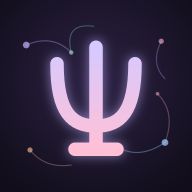
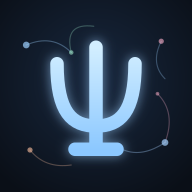
Color principal celeste en vez de morado
Claude-Session: https://claude.ai/code/session_01VSuco3dbuJTJP6K4NX9hPz

Changed region(s): [[0.25, 0.2188, 0.75, 0.8125], [0.0938, 0.2188, 0.1562, 0.25]]

diff --git a/index.html b/index.html
@@ -5,7 +5,7 @@
 <meta name="viewport" content="width=device-width,initial-scale=1,viewport-fit=cover">
 <title>Pensum Psicología UNET</title>
 <meta name="description" content="Marca tus materias aprobadas de Psicología UNET y descubre qué inscribir según las prelaciones.">
-<meta name="theme-color" content="#100D18">
+<meta name="theme-color" content="#0B1018">
 <meta name="apple-mobile-web-app-capable" content="yes">
 <meta name="mobile-web-app-capable" content="yes">
 <meta name="apple-mobile-web-app-status-bar-style" content="black-translucent">
@@ -21,15 +21,15 @@
    por donde viajan impulsos pastel (sinapsis) y, abajo, dos personas conversando con alguna burbuja de pensamiento.
    Tarjetas oscuras translúcidas, acentos pastel, títulos en serif suave (Fraunces) */
 :root{
-  --bg:#100D18; --surface:rgba(27,22,39,.92); --surface-2:#251E36; --sunk:rgba(12,10,19,.62);
-  --ink:#F2EDF8; --muted:#A99FBA; --line:rgba(196,178,255,.12); --line-strong:rgba(196,178,255,.26);
-  --lav:#C4B2FF; --lav-soft:rgba(196,178,255,.14); --on-pastel:#18121F;
+  --bg:#0B1018; --surface:rgba(18,24,35,.92); --surface-2:#1B2433; --sunk:rgba(7,11,17,.62);
+  --ink:#EEF3F9; --muted:#9AA9BD; --line:rgba(157,208,255,.12); --line-strong:rgba(157,208,255,.26);
+  --lav:#9DD0FF; --lav-soft:rgba(157,208,255,.14); --on-pastel:#0E1520;
   --mint:#9EE8C8; --mint-soft:rgba(158,232,200,.13);
   --sky:#A6D2FF; --sky-soft:rgba(166,210,255,.13);
   --peach:#FFC2A1; --peach-soft:rgba(255,194,161,.14);
   --butter:#FFE39B; --butter-soft:rgba(255,227,155,.14);
   --rose:#FFB1CB; --rose-soft:rgba(255,177,203,.14);
-  --stone:rgba(169,159,186,.14); --stone-ink:#C3BAD2;
+  --stone:rgba(150,168,190,.14); --stone-ink:#BCC8D8;
   --f-display:"Fraunces",Georgia,"Times New Roman",serif;
   --f-body:"Figtree",system-ui,-apple-system,"Segoe UI",Arial,sans-serif;
   --f-mono:"DM Mono",ui-monospace,Menlo,Consolas,monospace;
@@ -50,26 +50,26 @@ button{font:inherit;color:inherit}
 /* Cabecera */
 .top{display:flex;align-items:center;gap:13px;padding-block:20px 8px}
 .psi{flex:none;width:50px;height:50px;border-radius:50%;display:grid;place-items:center;font-family:var(--f-display);font-size:30px;line-height:1;color:var(--lav);
-  background:radial-gradient(circle at 50% 40%,rgba(196,178,255,.22),rgba(196,178,255,.04) 70%);border:1px solid rgba(196,178,255,.35);text-shadow:0 0 14px rgba(196,178,255,.6);box-shadow:0 0 22px -6px rgba(196,178,255,.45)}
+  background:radial-gradient(circle at 50% 40%,rgba(157,208,255,.22),rgba(157,208,255,.04) 70%);border:1px solid rgba(157,208,255,.35);text-shadow:0 0 14px rgba(157,208,255,.6);box-shadow:0 0 22px -6px rgba(157,208,255,.45)}
 .brand{min-width:0}
 .brand h1{font-family:var(--f-display);font-weight:700;font-size:29px;line-height:1;margin:0;letter-spacing:-.2px}
-.brand h1 em{font-style:italic;font-weight:600;color:var(--lav);text-shadow:0 0 20px rgba(196,178,255,.35)}
+.brand h1 em{font-style:italic;font-weight:600;color:var(--lav);text-shadow:0 0 20px rgba(157,208,255,.35)}
 .brand p{margin:7px 0 0;font-size:12.5px;color:var(--muted);font-weight:500}
 .top .la{height:46px;width:auto;margin-left:auto;flex:none;display:block}
 
 /* Resumen */
-.sum{position:relative;overflow:hidden;background:linear-gradient(180deg,rgba(38,31,55,.95),rgba(22,18,33,.95));border:1px solid var(--line-strong);border-radius:24px;padding:20px 18px 16px;margin-block:12px 4px;display:grid;gap:12px;box-shadow:inset 0 1px 0 rgba(255,255,255,.05),0 22px 40px -26px rgba(0,0,0,.8)}
+.sum{position:relative;overflow:hidden;background:linear-gradient(180deg,rgba(27,36,52,.95),rgba(16,21,31,.95));border:1px solid var(--line-strong);border-radius:24px;padding:20px 18px 16px;margin-block:12px 4px;display:grid;gap:12px;box-shadow:inset 0 1px 0 rgba(255,255,255,.05),0 22px 40px -26px rgba(0,0,0,.8)}
 .sum::before{content:"";position:absolute;right:-70px;top:-80px;width:240px;height:220px;border-radius:50%;pointer-events:none;
-  background:radial-gradient(closest-side,rgba(196,178,255,.2),rgba(196,178,255,0)),radial-gradient(closest-side at 30% 70%,rgba(255,177,203,.12),rgba(255,177,203,0))}
+  background:radial-gradient(closest-side,rgba(157,208,255,.2),rgba(157,208,255,0)),radial-gradient(closest-side at 30% 70%,rgba(255,177,203,.12),rgba(255,177,203,0))}
 .sum > *{position:relative}
 .sum .big{display:flex;align-items:baseline;gap:10px;flex-wrap:wrap}
-.sum .big b{font-family:var(--f-display);font-weight:700;font-size:56px;line-height:.9;color:var(--lav);font-variant-numeric:tabular-nums;letter-spacing:-1px;text-shadow:0 0 26px rgba(196,178,255,.35)}
+.sum .big b{font-family:var(--f-display);font-weight:700;font-size:56px;line-height:.9;color:var(--lav);font-variant-numeric:tabular-nums;letter-spacing:-1px;text-shadow:0 0 26px rgba(157,208,255,.35)}
 .sum .big span{color:var(--muted);font-size:14.5px}
 .bar{height:12px;border-radius:99px;background:rgba(255,255,255,.06);overflow:hidden;display:flex}
-.bar i{display:block;height:100%;border-right:2px solid #1E1829}
+.bar i{display:block;height:100%;border-right:2px solid #151C29}
 .stats{display:grid;grid-template-columns:repeat(3,minmax(0,1fr));gap:8px}
 .stat{border-radius:16px;padding:9px 12px;min-width:0;border:1px solid transparent}
-.stat:nth-child(1){background:var(--lav-soft);border-color:rgba(196,178,255,.18)} .stat:nth-child(1) b{color:var(--lav)}
+.stat:nth-child(1){background:var(--lav-soft);border-color:rgba(157,208,255,.18)} .stat:nth-child(1) b{color:var(--lav)}
 .stat:nth-child(2){background:var(--mint-soft);border-color:rgba(158,232,200,.18)} .stat:nth-child(2) b{color:var(--mint)}
 .stat:nth-child(3){background:var(--peach-soft);border-color:rgba(255,194,161,.18)} .stat:nth-child(3) b{color:var(--peach)}
 .stat b{display:block;font-family:var(--f-display);font-weight:700;font-size:25px;line-height:1.15;font-variant-numeric:tabular-nums}
@@ -77,10 +77,10 @@ button{font:inherit;color:inherit}
 .sync{font-size:12px;color:var(--muted)}
 
 /* Pestañas */
-.tabs{position:sticky;top:env(safe-area-inset-top,0px);z-index:5;background:linear-gradient(var(--bg) 76%,rgba(16,13,24,0));padding-block:10px 14px}
-.seg{display:grid;grid-template-columns:repeat(4,1fr);background:rgba(27,22,39,.95);border:1px solid var(--line);border-radius:99px;padding:4px;gap:2px}
+.tabs{position:sticky;top:env(safe-area-inset-top,0px);z-index:5;background:linear-gradient(var(--bg) 76%,rgba(11,16,24,0));padding-block:10px 14px}
+.seg{display:grid;grid-template-columns:repeat(4,1fr);background:rgba(18,24,35,.95);border:1px solid var(--line);border-radius:99px;padding:4px;gap:2px}
 .seg button{border:0;background:transparent;border-radius:99px;padding:9px 4px;font-weight:600;font-size:14.5px;line-height:1.1;cursor:pointer;color:var(--muted);transition:background .2s,color .2s}
-.seg button[aria-selected="true"]{background:var(--lav);color:var(--on-pastel);box-shadow:0 0 18px -4px rgba(196,178,255,.6)}
+.seg button[aria-selected="true"]{background:var(--lav);color:var(--on-pastel);box-shadow:0 0 18px -4px rgba(157,208,255,.6)}
 
 /* Semestres y filas */
 .sem{margin-block:20px}
@@ -92,11 +92,11 @@ button{font:inherit;color:inherit}
 .list{background:var(--surface);border:1px solid var(--line);border-radius:20px;overflow:hidden}
 .row{display:flex;align-items:center;gap:12px;width:100%;text-align:left;border:0;border-top:1px solid var(--line);background:transparent;padding:11px 14px;cursor:pointer;min-height:58px;transition:background .2s}
 .row:first-child{border-top:0}
-.row:hover{background:rgba(196,178,255,.05)}
+.row:hover{background:rgba(157,208,255,.05)}
 /* Marca: círculo vacío = pendiente · círculo menta con visto = aprobada · nube de pensamiento con puntos = inscrita (cursando) */
 .ck{flex:none;width:28px;height:28px;display:grid;place-items:center}
 .ck svg{width:28px;height:28px;display:block}
-.dot .r{fill:rgba(255,255,255,.02);stroke:#5F5573;stroke-width:1.6}
+.dot .r{fill:rgba(255,255,255,.02);stroke:#536279;stroke-width:1.6}
 .dot .k{fill:none;stroke:var(--on-pastel);stroke-width:2.4;stroke-linecap:round;stroke-linejoin:round;display:none}
 .ck .tb{display:none}
 .tb .c{fill:var(--butter);stroke:#E8C566;stroke-width:1.1}
@@ -132,7 +132,7 @@ button{font:inherit;color:inherit}
 .opts div{margin-top:3px}
 .markbar{display:grid;gap:6px;margin:4px 2px}
 .markbar>span{font-size:12.5px;color:var(--muted)}
-.marks{display:grid;grid-template-columns:1fr 1fr;gap:4px;background:rgba(27,22,39,.95);border:1px solid var(--line);padding:4px;border-radius:18px}
+.marks{display:grid;grid-template-columns:1fr 1fr;gap:4px;background:rgba(18,24,35,.95);border:1px solid var(--line);padding:4px;border-radius:18px}
 .marks button{display:flex;align-items:center;justify-content:center;gap:8px;border:0;border-radius:14px;padding:9px 6px;font-weight:600;font-size:14px;background:transparent;color:var(--muted);cursor:pointer}
 .marks button[aria-pressed="true"]{background:var(--surface-2);color:var(--ink);box-shadow:inset 0 0 0 1px var(--line-strong),inset 0 -3px 0 var(--mint)}
 #mkE[aria-pressed="true"]{box-shadow:inset 0 0 0 1px var(--line-strong),inset 0 -3px 0 var(--butter)}
@@ -185,7 +185,7 @@ button{font:inherit;color:inherit}
 /* Plan */
 .plan{display:grid;gap:10px}
 .ps{border:1px solid var(--line);border-radius:20px;background:var(--surface);overflow:hidden}
-.ps header{display:flex;justify-content:space-between;align-items:baseline;padding:10px 14px;background:rgba(196,178,255,.08);border-bottom:1px solid var(--line)}
+.ps header{display:flex;justify-content:space-between;align-items:baseline;padding:10px 14px;background:rgba(157,208,255,.08);border-bottom:1px solid var(--line)}
 .ps header b{font-family:var(--f-display);font-size:18px;font-weight:700}
 .ps header span{font-family:var(--f-mono);font-size:11px;color:var(--muted);font-variant-numeric:tabular-nums;white-space:nowrap;margin-left:10px}
 .ps ul{list-style:none;margin:0;padding:6px 14px 10px}
@@ -208,7 +208,7 @@ button{font:inherit;color:inherit}
 .btn{border:0;background:var(--lav);color:var(--on-pastel);border-radius:99px;padding:10px 16px;font-weight:700;font-size:14.5px;cursor:pointer;white-space:nowrap}
 .btn.sec{background:var(--surface-2);color:var(--lav);box-shadow:inset 0 0 0 1px var(--line-strong)}
 .btn.danger{background:var(--rose-soft);color:var(--rose);box-shadow:inset 0 0 0 1px rgba(255,177,203,.35)}
-.codebox{font-family:var(--f-mono);font-size:13px;background:var(--lav-soft);border:1px dashed rgba(196,178,255,.4);color:var(--lav);border-radius:14px;padding:10px 12px;word-break:break-all;user-select:all}
+.codebox{font-family:var(--f-mono);font-size:13px;background:var(--lav-soft);border:1px dashed rgba(157,208,255,.4);color:var(--lav);border-radius:14px;padding:10px 12px;word-break:break-all;user-select:all}
 .msg{font-size:13px;margin-top:6px;min-height:1em}
 .msg.ok{color:var(--mint)} .msg.bad{color:var(--rose)}
 .foot{display:flex;align-items:center;justify-content:center;gap:14px;padding-block:26px 30px;color:var(--muted);font-size:12.5px;text-align:center;flex-wrap:wrap}
@@ -219,7 +219,7 @@ button{font:inherit;color:inherit}
 .acrow .sync{flex:1;min-width:160px}
 .acrow .btn{padding:8px 14px;font-size:13.5px}
 .sheet{position:fixed;inset:0;z-index:20;background:rgba(5,4,9,.7);display:flex;align-items:center;justify-content:center;backdrop-filter:blur(4px);-webkit-backdrop-filter:blur(4px);padding:calc(16px + env(safe-area-inset-top,0px)) max(16px,env(safe-area-inset-right,0px)) calc(16px + env(safe-area-inset-bottom,0px)) max(16px,env(safe-area-inset-left,0px))}
-.sheet-in{position:relative;width:100%;max-width:440px;max-height:100%;overflow:auto;background:linear-gradient(180deg,#261F37,#1A1526);border:1px solid var(--line-strong);border-radius:26px;padding:22px 18px 20px;box-shadow:0 24px 60px -20px rgba(0,0,0,.8)}
+.sheet-in{position:relative;width:100%;max-width:440px;max-height:100%;overflow:auto;background:linear-gradient(180deg,#1E2738,#141A26);border:1px solid var(--line-strong);border-radius:26px;padding:22px 18px 20px;box-shadow:0 24px 60px -20px rgba(0,0,0,.8)}
 .sheet-h{display:flex;align-items:center;justify-content:space-between;margin-bottom:10px}
 .sheet-h h3{font-family:var(--f-display);font-size:24px;font-weight:700;margin:0}
 .gbtn{display:flex;align-items:center;justify-content:center;gap:10px;width:100%;background:#fff;color:#1f1f1f;box-shadow:none;font-weight:600;font-size:15px;padding:12px}
@@ -1010,7 +1010,7 @@ if ("serviceWorker" in navigator && location.protocol === "https:") {
   const ctx = cv.getContext("2d");
   const reduce = window.matchMedia && matchMedia("(prefers-reduced-motion: reduce)").matches;
   const TAU = Math.PI*2, rnd = (a,b) => a + Math.random()*(b-a), pick = a => a[Math.floor(Math.random()*a.length)];
-  const COLS = ["196,178,255","158,232,200","166,210,255","255,194,161","255,177,203","255,227,155"];
+  const COLS = ["157,208,255","158,232,200","255,194,161","190,228,255","255,177,203","255,227,155"];
   const SYMS = ["heart","?","smile","!","Ψ","spiral","sad","zZ","bulb","…"];
   const SPEED = 80;   // px/s de los impulsos
   let W=0,H=0,dpr=1,base=null,N=[],E=[],pulses=[],queue=[],heads=[],bubbles=[],t=0,last=0,raf=0,nextFire=0,nextBubble=0,SB=0;
@@ -1043,7 +1043,7 @@ if ("serviceWorker" in navigator && location.protocol === "https:") {
     if (tmp.width !== S*dpr){ tmp.width = tmp.height = S*dpr; } tc.setTransform(dpr,0,0,dpr,0,0); tc.clearRect(0,0,S,S);
     const cx = S/2, cy = S/2;   // se dibuja aparte y opaca, y luego se pega con transparencia (así no se ven los círculos por dentro)
     tc.strokeStyle = `rgba(${col},.8)`; tc.lineWidth = 2.4; bumps.forEach(b => { tc.beginPath(); tc.arc(cx+b[0]*r, cy+b[1]*r, b[2]*r, 0, TAU); tc.stroke(); });
-    tc.fillStyle = "#1E1830"; bumps.forEach(b => { tc.beginPath(); tc.arc(cx+b[0]*r, cy+b[1]*r, b[2]*r, 0, TAU); tc.fill(); });
+    tc.fillStyle = "#172131"; bumps.forEach(b => { tc.beginPath(); tc.arc(cx+b[0]*r, cy+b[1]*r, b[2]*r, 0, TAU); tc.fill(); });
     c.save(); c.globalAlpha = a; c.drawImage(tmp, x - S/2, y - S/2, S, S); c.restore();
   }
   function build(){
@@ -1051,9 +1051,9 @@ if ("serviceWorker" in navigator && location.protocol === "https:") {
     W = innerWidth; H = innerHeight; cv.width = Math.round(W*dpr); cv.height = Math.round(H*dpr);
     base = document.createElement("canvas"); base.width = cv.width; base.height = cv.height;
     const b = base.getContext("2d"); b.scale(dpr,dpr); b.lineCap = "round";
-    const g = b.createLinearGradient(0,0,0,H); g.addColorStop(0,"#140F1F"); g.addColorStop(1,"#0B0911");
+    const g = b.createLinearGradient(0,0,0,H); g.addColorStop(0,"#0E1523"); g.addColorStop(1,"#080B11");
     b.fillStyle = g; b.fillRect(0,0,W,H);
-    const rg = b.createRadialGradient(W*.5,H*.2,0,W*.5,H*.2,Math.max(W,H)*.75); rg.addColorStop(0,"rgba(120,90,200,.15)"); rg.addColorStop(1,"rgba(120,90,200,0)");
+    const rg = b.createRadialGradient(W*.5,H*.2,0,W*.5,H*.2,Math.max(W,H)*.75); rg.addColorStop(0,"rgba(60,130,210,.14)"); rg.addColorStop(1,"rgba(60,130,210,0)");
     b.fillStyle = rg; b.fillRect(0,0,W,H);
     const sb = safeBottom(); SB = H - 92 - sb;
     // neuronas repartidas con una distancia mínima entre ellas
@@ -1093,10 +1093,10 @@ if ("serviceWorker" in navigator && location.protocol === "https:") {
       const hg = b.createRadialGradient(n.x,n.y,0,n.x,n.y,n.r*5); hg.addColorStop(0,`rgba(${n.c},.1)`); hg.addColorStop(1,`rgba(${n.c},0)`);
       b.fillStyle = hg; b.beginPath(); b.arc(n.x,n.y,n.r*5,0,TAU); b.fill();
       b.fillStyle = `rgba(${n.c},.42)`; b.beginPath(); b.arc(n.x,n.y,n.r,0,TAU); b.fill();
-      b.fillStyle = "rgba(16,13,24,.75)"; b.beginPath(); b.arc(n.x,n.y,n.r*.38,0,TAU); b.fill();   // núcleo
+      b.fillStyle = "rgba(9,13,20,.75)"; b.beginPath(); b.arc(n.x,n.y,n.r*.38,0,TAU); b.fill();   // núcleo
     });
     // abajo: se oscurece un poco para que resalten las siluetas
-    const fg = b.createLinearGradient(0,SB-40,0,H); fg.addColorStop(0,"rgba(11,9,17,0)"); fg.addColorStop(1,"rgba(11,9,17,.92)");
+    const fg = b.createLinearGradient(0,SB-40,0,H); fg.addColorStop(0,"rgba(8,11,17,0)"); fg.addColorStop(1,"rgba(8,11,17,.92)");
     b.fillStyle = fg; b.fillRect(0,SB-40,W,H-SB+40);
     // personas de perfil, algunas mirándose como en una conversación
     heads = [];
@@ -1106,7 +1106,7 @@ if ("serviceWorker" in navigator && location.protocol === "https:") {
         heads.push({x, y, s, dir, c, bx: x + (dir > 0 ? .46 : .54)*s, by: y + .42*s})); });
     heads.forEach(h => {
       headPath(b, h.x, h.y, h.s, h.dir);
-      const hg = b.createLinearGradient(0,h.y,0,H); hg.addColorStop(0,"#211A33"); hg.addColorStop(1,"#120E1B");
+      const hg = b.createLinearGradient(0,h.y,0,H); hg.addColorStop(0,"#1A2436"); hg.addColorStop(1,"#0D121B");
       b.fillStyle = hg; b.fill();
       b.save(); b.clip(); const gl = b.createRadialGradient(h.bx,h.by,0,h.bx,h.by,h.s*.55); gl.addColorStop(0,`rgba(${h.c},.2)`); gl.addColorStop(1,`rgba(${h.c},0)`);
       b.fillStyle = gl; b.fillRect(h.x-h.s, h.y-h.s, h.s*3, h.s*3); b.restore();
@@ -1157,7 +1157,7 @@ if ("serviceWorker" in navigator && location.protocol === "https:") {
     // burbujas de pensamiento que suben y se desvanecen
     bubbles.forEach(q => {
       const a = Math.min(1, q.age/.6, (q.life - q.age)/1.6), g = Math.min(1, .55 + q.age*.6);
-      [[.3,3],[.6,4.6]].forEach(([f,r]) => { ctx.globalAlpha = a*.85; ctx.fillStyle = "#1E1830"; ctx.strokeStyle = `rgba(${q.c},.75)`; ctx.lineWidth = 1.2;
+      [[.3,3],[.6,4.6]].forEach(([f,r]) => { ctx.globalAlpha = a*.85; ctx.fillStyle = "#172131"; ctx.strokeStyle = `rgba(${q.c},.75)`; ctx.lineWidth = 1.2;
         const px = q.ox + (q.x - q.ox)*f*.55, py = q.oy + (q.y - q.oy)*f*.55; ctx.beginPath(); ctx.arc(px,py,r*g,0,TAU); ctx.fill(); ctx.stroke(); });
       ctx.globalAlpha = 1;
       cloud(ctx, q.x, q.y, q.r*g, q.c, a);

diff --git a/sw.js b/sw.js
@@ -1,5 +1,5 @@
 // Service worker: funciona sin internet después de la primera visita
-const CACHE = "pensum-ps-v7";
+const CACHE = "pensum-ps-v8";
 const SHELL = ["./", "index.html", "manifest.webmanifest", "icons/icon-192.png", "icons/icon-512.png",
   "icons/apple-touch-icon.png", "icons/logo-alpha.png"];
 self.addEventListener("install", e => { e.waitUntil(caches.open(CACHE).then(c => c.addAll(SHELL))); self.skipWaiting(); });
